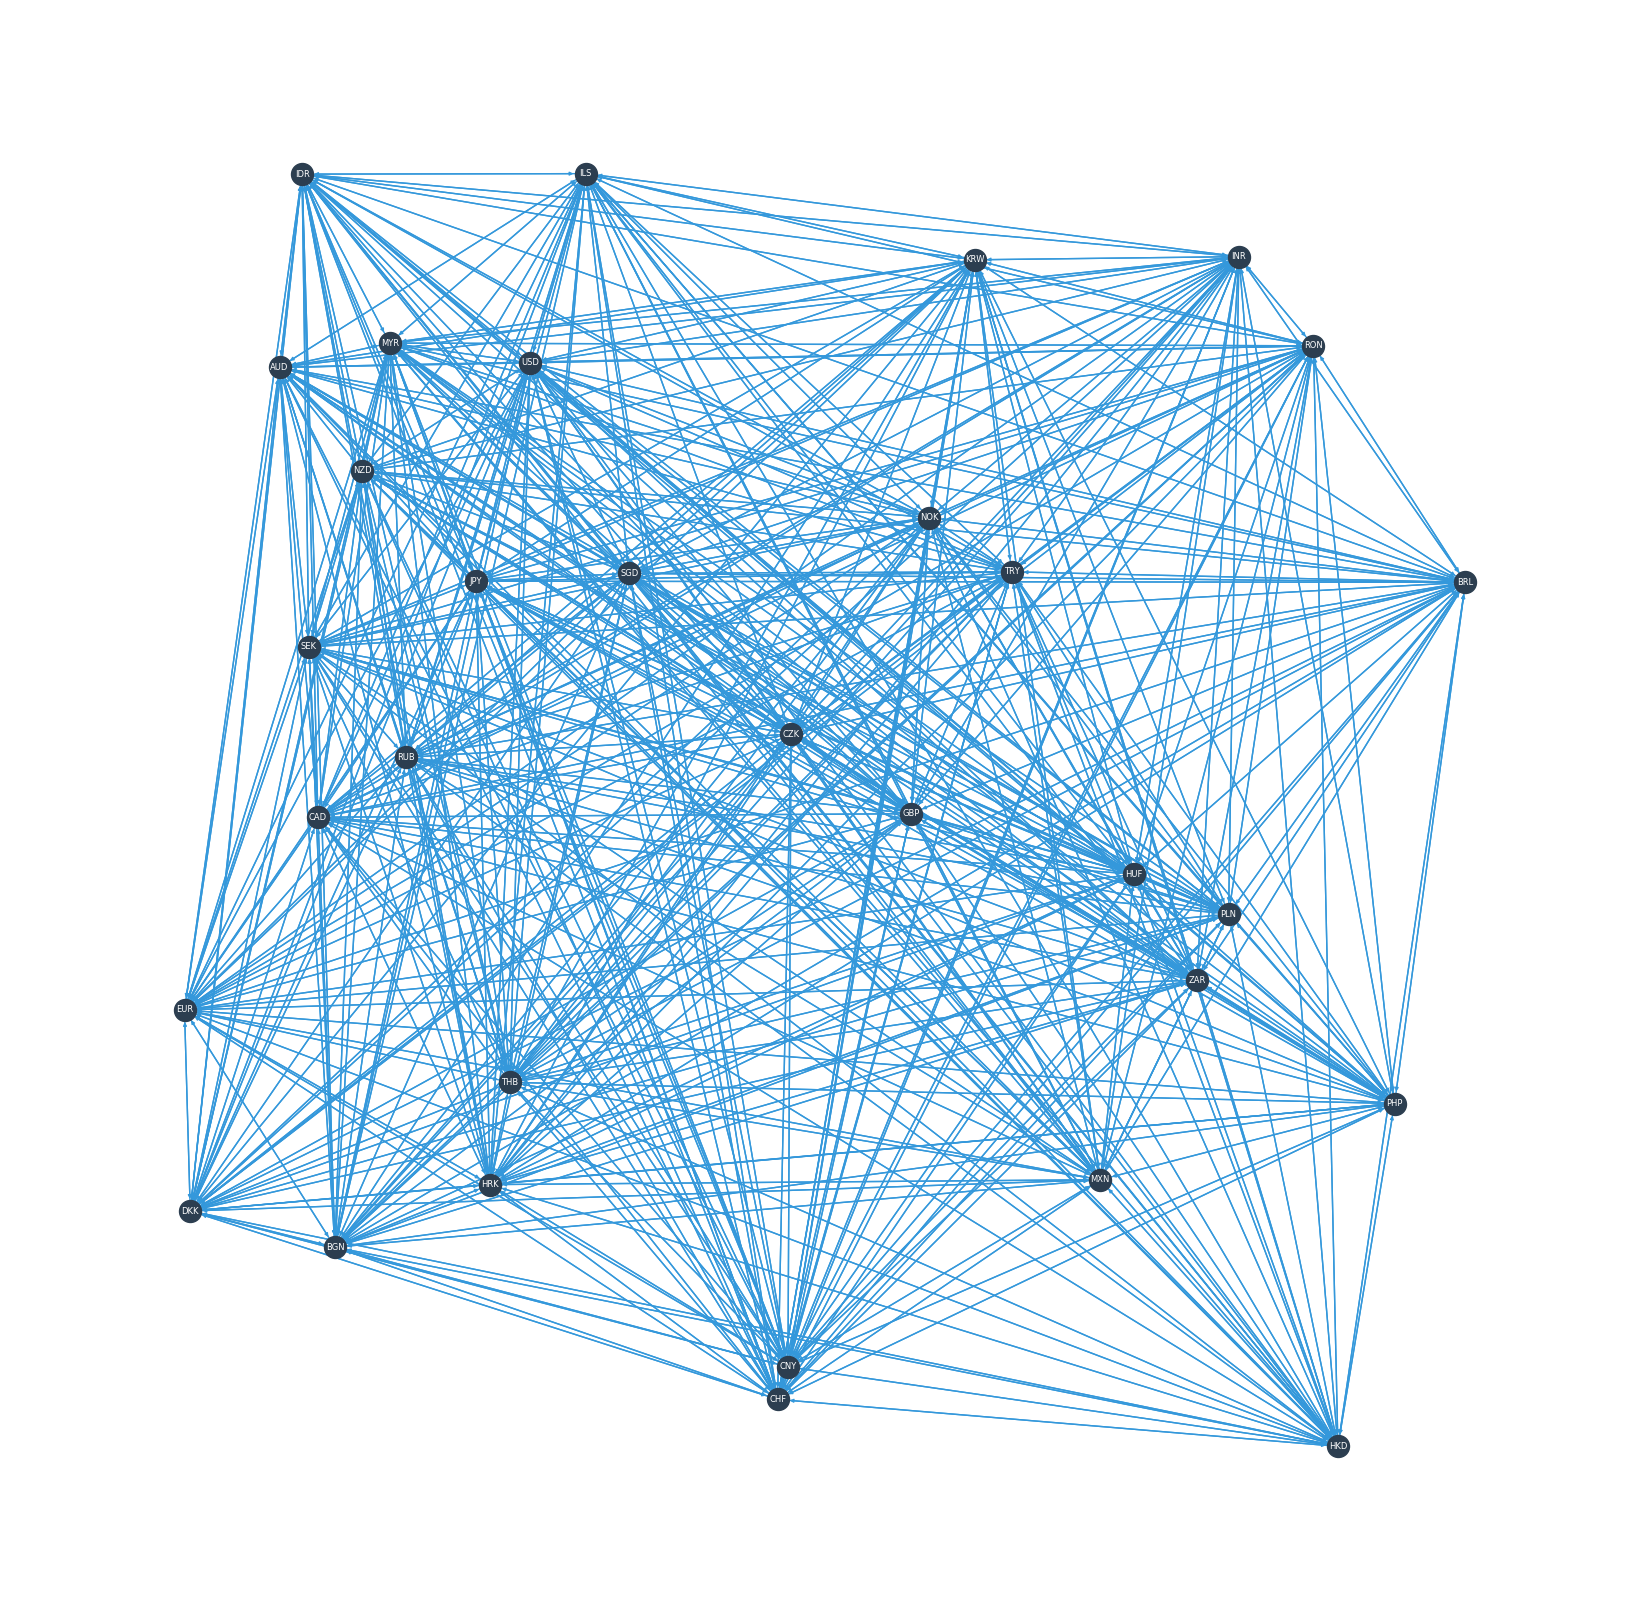
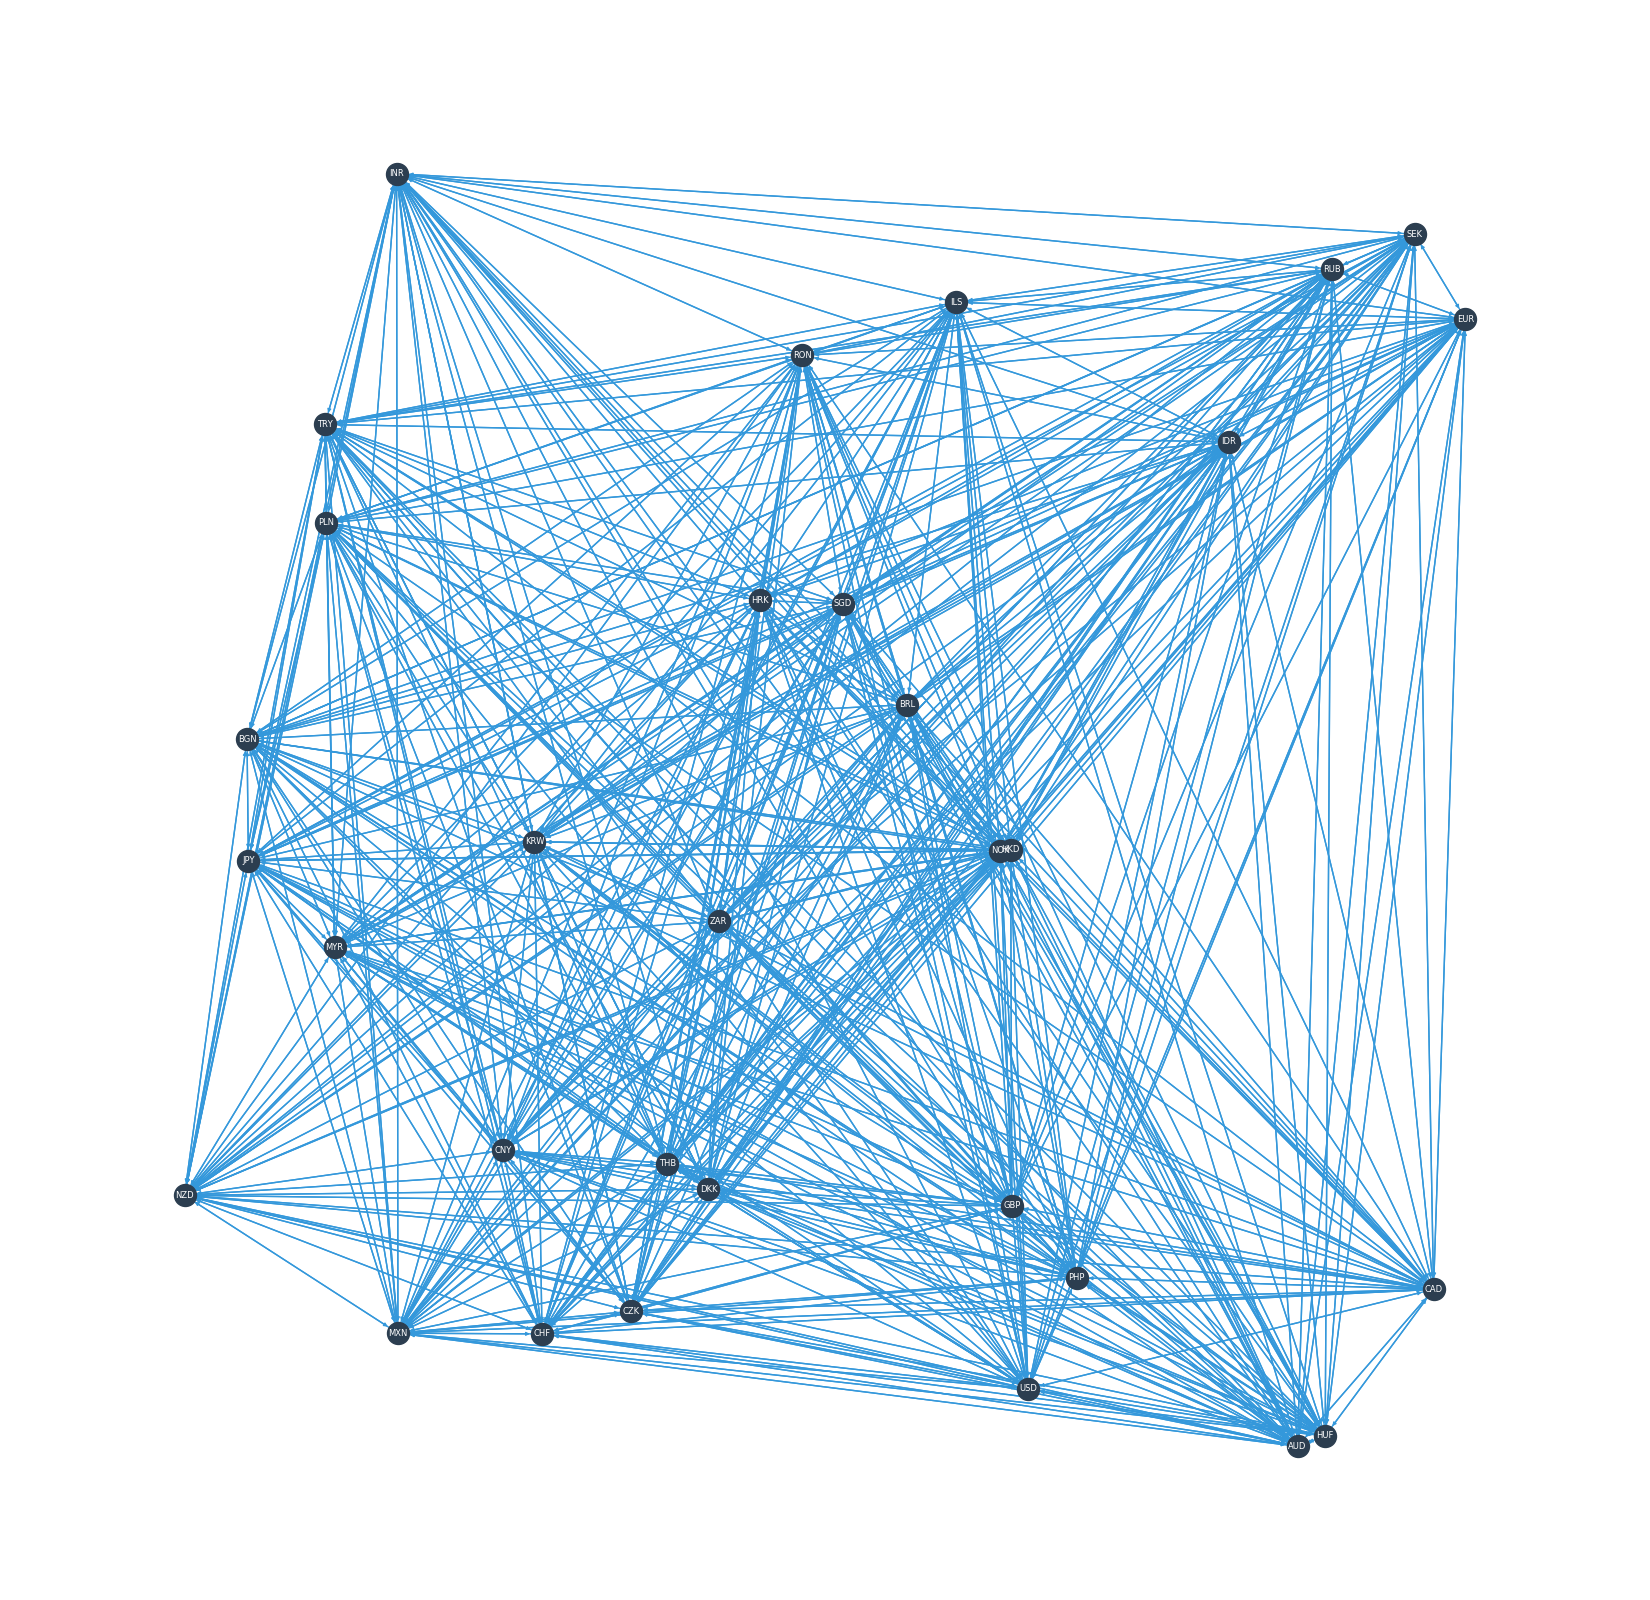
dsd

diff --git a/templates/index.html b/templates/index.html
@@ -24,7 +24,7 @@
     <div class="uk-margin">
       <div class="uk-inline">
         <span class="uk-form-icon" uk-icon="icon: calendar"></span>
-        <input class="uk-input  uk-form-width-large" type="text" name="date" placeholder="YYYY-MM-DD (optional)">
+        <input class="uk-input  uk-form-width-large" type="text" name="date" placeholder="YYYY-MM-DD (default is today)">
       </div>
       <button name="start" type="submit" onclick="enableLoading()"
               class="uk-button uk-button-secondary">GIMME THAT BREAD</button>
@@ -40,7 +40,9 @@
   <br>
   <div style="margin-left: 20%; margin-right: 20%">
     <div class="uk-card-small uk-card-secondary uk-card-body">
-      <h3 class="uk-card-title">Arbitrage Paths</h3>
+      <h3 class="uk-card-title">
+        Arbitrage Paths {{ date }}
+      </h3>
     </div>
     <div class="uk-card uk-card-default uk-card-body">
       <div class="uk-card-badge uk-label">+ 1.32%</div>
@@ -50,7 +52,7 @@
   <br>
   <div style="margin-left: 20%; margin-right: 20%">
     <div class="uk-card-small uk-card-primary uk-card-body">
-      <h3 class="uk-card-title">Graphs</h3>
+      <h3 class="uk-card-title">Graphs {{ date }}</h3>
     </div>
     <div class="uk-card uk-card-default">
       <img src="{{ url_for('static', filename='placeholder.jpg') }}"
@@ -65,7 +67,7 @@
   <br>
   <div style="margin-left: 20%; margin-right: 20%">
     <div class="uk-card-small uk-card-secondary uk-card-body">
-      <h3 class="uk-card-title">Exchange Table</h3>
+      <h3 class="uk-card-title">Exchange Table {{ date }} </h3>
     </div>
     <div class="uk-card uk-card-default">
       <div style="height: 500px; overflow: auto;">

diff --git a/forex_scraper.py b/forex_scraper.py
@@ -8,24 +8,23 @@ class ForexScraper:
     adjacency_matrix = None
     currency_list = None
 
-    def __init__(self):
-        self.currency_list = self.create_currency_list()
-        self.create_adjacency_matrix()
+    def __init__(self, date):
+        self.currency_list = self.create_currency_list(date)
+        self.create_adjacency_matrix(date)
         self.create_csv_from_adjacency_matrix()
 
     #get the initial list of currencies we want to use
-    def create_currency_list(self):
+    def create_currency_list(self, date):
         currency_list = []
-        url = "http://api.exchangeratesapi.io/2017-07-23?base=USD"
-        connection = urllib.request.urlopen(url)
-        json_obj = json.loads(connection.read())
-
+        json_obj = self.get_exchange_rate_json_from_api(date=date)
+        if json_obj is None:
+            return currency_list
         exchange_dict = json_obj["rates"]
         for symbol in exchange_dict:
             currency_list.append(symbol)
         return currency_list
 
-    def create_adjacency_matrix(self):
+    def create_adjacency_matrix(self, date):
         # initialize adjacency matrix with 0s with the columns/rows as the currencies in currency_list
         num_currencies = len(self.currency_list)
         self.adjacency_matrix = pd.DataFrame(np.zeros(shape=(num_currencies, num_currencies)),
@@ -34,9 +33,9 @@ class ForexScraper:
         # TO-DO: add error handling, try-catch, etc
         for base_symbol in self.currency_list:
             # CREATE A METHOD TO DO API CALLS
-            url = "http://api.exchangeratesapi.io/2017-07-23?base=" +base_symbol
-            connection = urllib.request.urlopen(url)
-            json_obj = json.loads(connection.read())
+            json_obj = self.get_exchange_rate_json_from_api(date=date, base=base_symbol)
+            if json_obj is None:
+                continue
             exchange_dict = json_obj["rates"]
             for exchange_symbol in exchange_dict:
                 try:
@@ -48,6 +47,16 @@ class ForexScraper:
         if "EUR" in self.adjacency_matrix:
             if "EUR" in self.adjacency_matrix["EUR"]:
                 self.adjacency_matrix["EUR"]["EUR"] = 1
+
+    def get_exchange_rate_json_from_api(self, date, base="USD"):
+        url = "http://api.exchangeratesapi.io/" +date +"?base=" +base
+        json_obj = None
+        try :
+            connection = urllib.request.urlopen(url)
+            json_obj = json.loads(connection.read())
+        except:
+            print("Error retrieving information from API")
+        return json_obj
 
     def create_csv_from_adjacency_matrix(self):
         if  self.adjacency_matrix is not None:

diff --git a/app.py b/app.py
@@ -13,10 +13,11 @@ def index():
 def run_arbitrage_program():
     # RETRIEVE DATE USER INPUT
     date = request.form['date']
-    print(date)
-
-    # #RUN THE FOREX SCRAPER AND CREATE ADJACENCY MATRIX & EXCHANGE TABLE WITH CURRENCIES
-    scraper = ForexScraper()
+    if date is None or date == "" or date == "now":
+        date = "latest"
+    ## RUN THE FOREX SCRAPER AND CREATE ADJACENCY MATRIX & EXCHANGE TABLE WITH CURRENCIES
+    # 2017-07-23 is good test date
+    scraper = ForexScraper(date)
     adjacency_matrix = scraper.get_adjacency_matrix()
     exchange_table = scraper.get_exchange_table_html()
 
@@ -43,7 +44,7 @@ def run_arbitrage_program():
     filtered_digraph = visualization.create_graph_from_dataframe(filtered_adj_matrix)
     visualization.draw_graph(filtered_digraph, output_file="filtered_digraph_1.png", size="large", edge_weights=True)
 
-    return render_template('index.html', exchange_table=exchange_table);
+    return render_template('index.html', exchange_table=exchange_table, date="("+date+")");
 
 if  __name__ == "__main__":
     app.run(debug=True)

diff --git a/visualization.py b/visualization.py
@@ -24,7 +24,12 @@ class GraphVisualization:
         plot.figure(figsize=(20,20))
         plot.box(on=None)
         # draw all parts of the networkx graph
-        pos = nx.random_layout(digraph)
+        pos = None
+        if size == "large":
+            pos = nx.spectral_layout(digraph)
+        elif size == "small":
+            pos = nx.random_layout(digraph)
+
         nx.draw_networkx_nodes(digraph, pos, node_size = node_size, node_color='#2c3e50')
         nx.draw_networkx_labels(digraph, pos, font_size=font_size, font_color='w')
         nx.draw_networkx_edges(digraph, pos, edgelist=digraph.edges, edge_color='#3498db',
